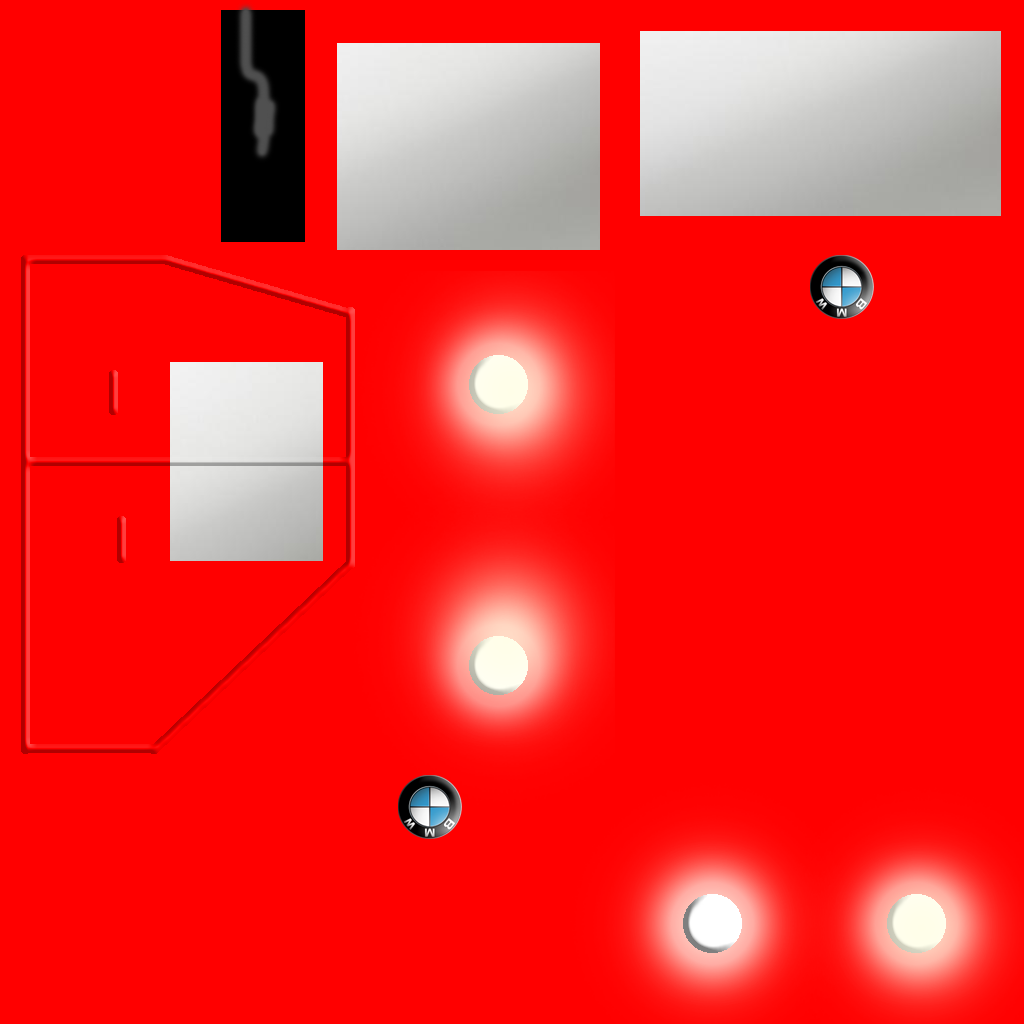
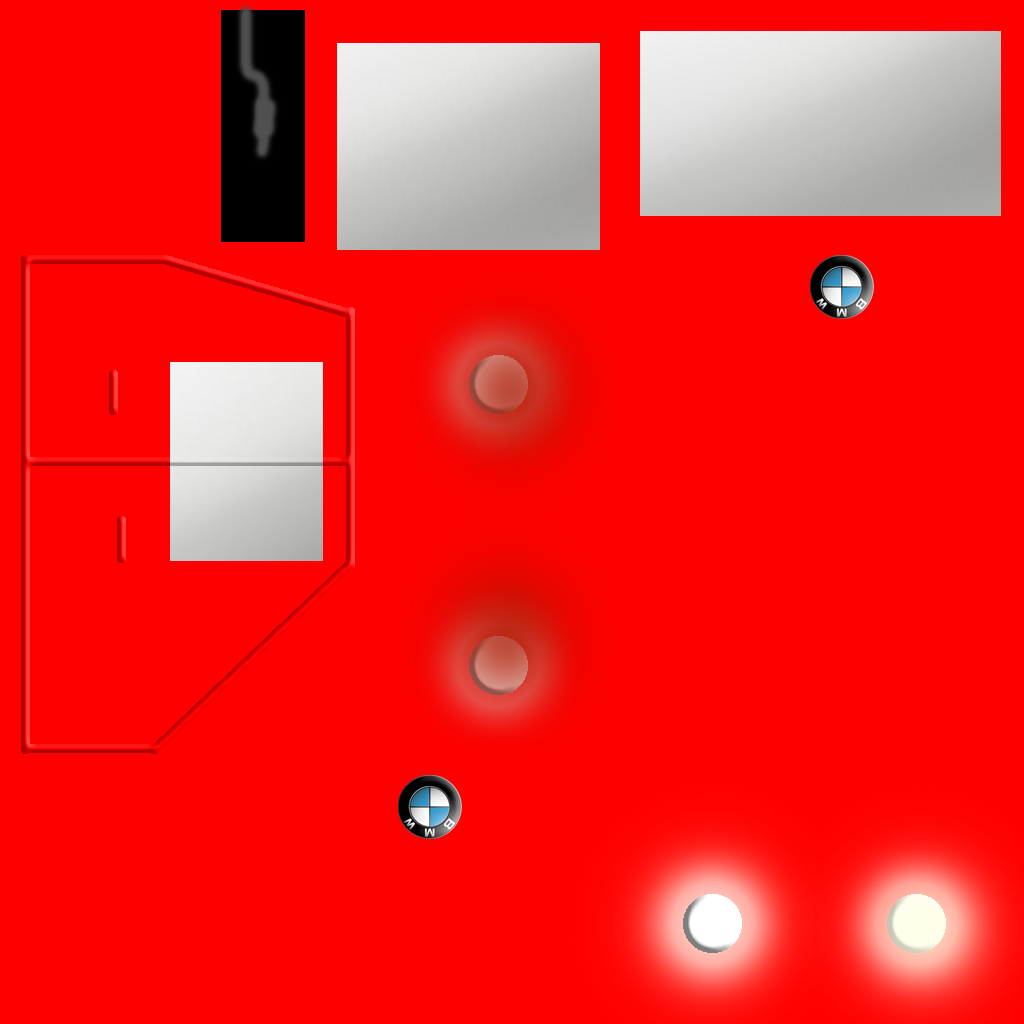
powerups i textura cotxe 1

Changed region(s): [[0.4062, 0.2812, 0.5938, 0.5], [0.4062, 0.5312, 0.5938, 0.7188]]

diff --git a/src/EntornVGI/Circuit.cpp b/src/EntornVGI/Circuit.cpp
@@ -168,6 +168,22 @@ void Circuit::LoadPowerUps()
 	}
 }
 
+bool Circuit::GetPUColission(Vector3 pos, int c)
+{
+
+	for (int i = 0; i < m_poweUpsLength; i++) {
+
+		if (m_powerUps[c][i].CheckColision(pos + Vector3(0, PowerUpOffsetY, 0))) {
+
+			return true;
+
+		}
+
+	}
+
+	return false;
+}
+
 void Circuit::Draw()
 {
 	float inc = 1.0f / CircuitsResolutions[(int)m_index];

diff --git a/src/EntornVGI/PracticaCotxe.cpp b/src/EntornVGI/PracticaCotxe.cpp
@@ -917,6 +917,13 @@ void PracticaCotxe::Update()
 			{
 				m_circuit.CalcDirPos(m_cars[i].GetProgress(), i, dir, pos);
 				m_cars[i].Move(pos, dir);
+				bool PUColission = m_circuit.GetPUColission(m_cars[i].GetPosition(), i);
+
+				if (PUColission) {
+
+					m_cars[i].AddBoost();
+
+				}
 
 				if (m_cars[i].getLaps() >= MAX_LAPS) {
 

diff --git a/src/EntornVGI/PowerUp.cpp b/src/EntornVGI/PowerUp.cpp
@@ -27,7 +27,7 @@ bool PowerUp::CheckColision(Vector3 p)
 {
 	Vector3 d = p - m_position;
 
-	if (d.X() < tamany / 2 || d.Y() < tamany / 2 || d.Z() < tamany / 2)
+	if (fabs(d.X()) < tamany / 2 && fabs(d.Y()) < tamany / 2 && fabs(d.Z()) < tamany / 2)
 	{
 		return true;
 	}

diff --git a/src/EntornVGI/Car.cpp b/src/EntornVGI/Car.cpp
@@ -112,7 +112,7 @@ Vector3 Car::GetDirection() const
 
 void Car::Boost()
 {
-	//if (m_boosts > 0)
+	if (m_boosts > 0)
 	{
 		m_speed += m_boostSpeed;
 		m_boosts--;

diff --git a/src/EntornVGI/PowerUp.h b/src/EntornVGI/PowerUp.h
@@ -11,7 +11,7 @@ public:
 	PowerUp();
 	~PowerUp();
 
-	void Init(int textura);
+	//void Init(int textura);
 	void Draw();
 	bool CheckColision(Vector3 p);
 };

diff --git a/src/EntornVGI/Circuit.h b/src/EntornVGI/Circuit.h
@@ -51,6 +51,7 @@ public:
 	float getDistance();
 
 	void LoadPowerUps();
+	bool GetPUColission(Vector3 pos, int c);
 
 	void Draw();
 };
